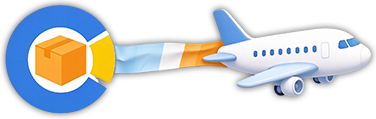
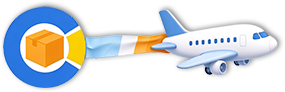
v1.4.30 测试版

diff --git a/CHANGELOG.md b/CHANGELOG.md
@@ -2,6 +2,12 @@
 
 新版本写在最上面。
 
+## 1.4.30
+
+### 变更
+
+- 行李牌上的飞机换成新图
+
 ## 1.4.29
 
 ### 变更
